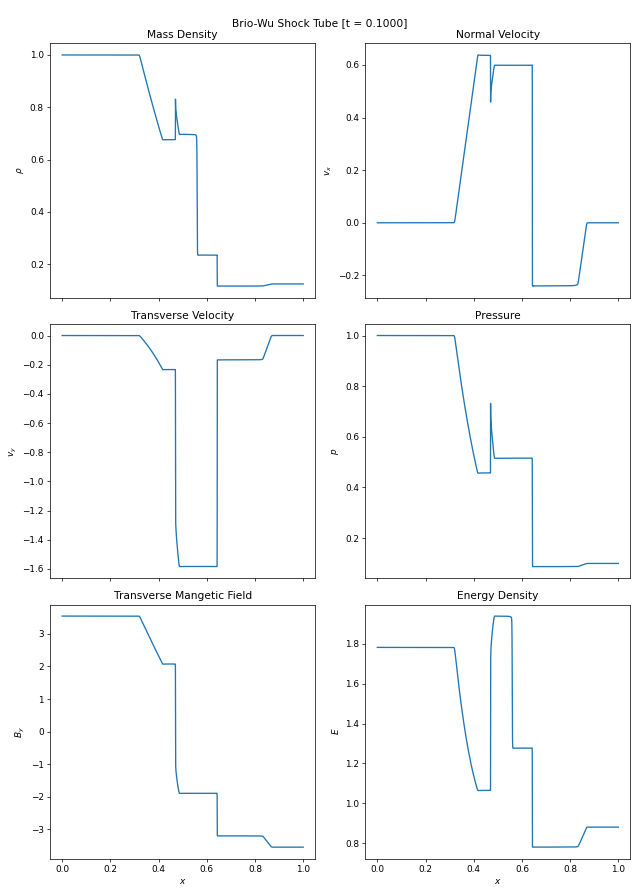
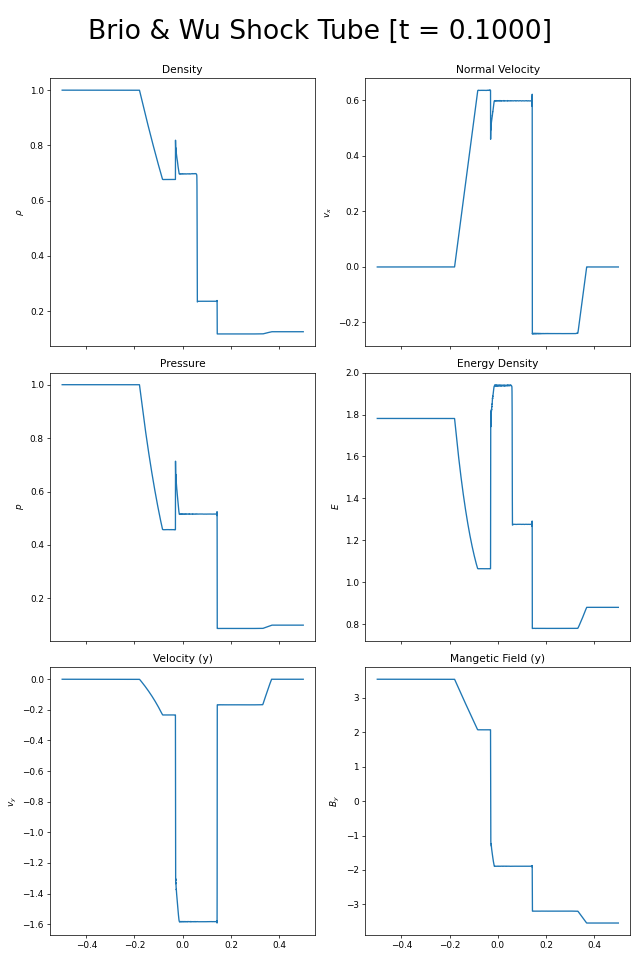
Updated and Reran Brio&Wu

diff --git a/Examples/1D/Brio-Wu/Config.h b/Examples/1D/Brio-Wu/Config.h
@@ -82,7 +82,7 @@ constexpr double Timestep_Tolerance = 1e-14; //Timesteps smaller than this are t
         #define LIMITER_VANLEER 2 //Smooth, less diffusive than minmod with gentle behavior across smooth gradients
         #define LIMITER_SUPERBEE 3 //Very compressive, sharply preserves discontinuities but can be aggressive
         #define LIMITER_VANALBADA 4 //Smooth, reduces clipping near smooth extrema while remaining shock-safe
-    #define MUSCL_DEFAULT_LIMITER LIMITER_MINMOD
+    #define MUSCL_DEFAULT_LIMITER LIMITER_MC
 
 
 //MARK: File I/O
@@ -111,7 +111,7 @@ inline std::string output_dir = "/Users/bobbiemarkwick/DRAGON_OUT"; //Set this t
 #define HDF5_REDUNDANT_VALS_OPTION HDF5_WRITE_FLOAT //Output precision of certain calculable values
     //Specifically, applies to Bx (2D+3D), By (2D+3D), Bz (3D only), and E (HDF5_WRITE_PRIMITIVE_AND_ENERGY only)
 
-//MARK: Grid Operation
+//MARK: Performance
 
 constexpr int core_count = 16; //Helps the Root level grid decide how many children to split into
 

diff --git a/Examples/1D/Brio-Wu/Constants.h b/Examples/1D/Brio-Wu/Constants.h
@@ -15,7 +15,6 @@
 constexpr double _gamma = 2.0;
 
 
-
 //******************************************************************//
 //*DO NOT TOUCH anything below this line (but feel free to read it)*//
 //******************************************************************//
@@ -25,7 +24,6 @@ constexpr double _1_4pi = 0.25/M_PI;
 constexpr double _1_8pi = 0.125/M_PI;
 const double sq4pi = sqrt(4.0*M_PI);
 const double sq8pi = sqrt(8.0*M_PI);
-
 
 //MARK: Gamma-dependent constants
 constexpr double  _Gm1_2G = (_gamma - 1.0)/(2.0 * _gamma);